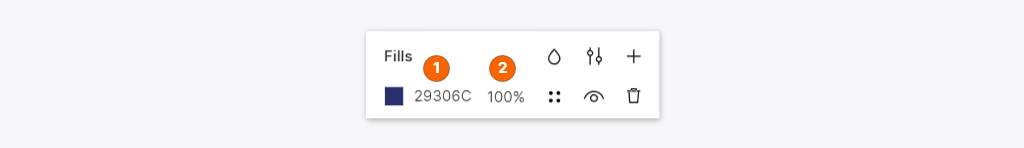
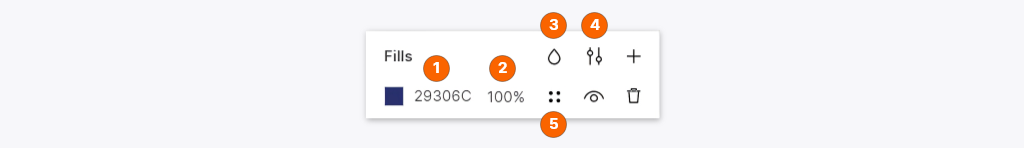
styling updates

Changed region(s): [[0.5, 0.0811, 0.5938, 0.2703], [0.5, 0.7568, 0.5625, 0.9459]]

diff --git a/docs/styling.md b/docs/styling.md
@@ -115,7 +115,7 @@ It features the following controls:
 
 <video autoplay="" muted="" loop="" playsinline="" width="auto" poster="/public/styling-pickerph1.png" height="auto"><source src="/public/styling-picker1.mp4" type="video/mp4"></video>
 
-## Color variables
+## [Color variables](#color-variables)
 
 Color variables let you efficiently manage colors in your documents and instantly recolor all the layers using the same color variable. You can apply color variables to [fills](#fills), [borders](#borders), and [shadows](#shadows).
 
@@ -154,7 +154,10 @@ The figure below shows a view of settings in the **Fills** section.
 The section features the following controls:
 
 1. The [color control](#color-controls) for setting fills.
-2. The blend mode control. Blend modes determine, in case of multiple fills, how the top fill blends with the fill underneath. Understanding blend modes is mainly a matter of practice and experimenting, but if you need some theory, you can read it <a href="https://en.wikipedia.org/wiki/Blend_modes" target="_blank">here</a>.
+2. The opacity control.
+3. The blend mode control. Blend modes determine, in case of multiple fills, how the top fill blends with the fill underneath. Understanding blend modes is mainly a matter of practice and experimenting, but if you need some theory, you can read it <a href="https://en.wikipedia.org/wiki/Blend_modes" target="_blank">here</a>.
+4. This button opens the panel where you can select between the *<a href="https://en.wikipedia.org/wiki/Nonzero-rule" target="_blank">Non-Zero</a>* and *<a href="https://en.wikipedia.org/wiki/Even–odd_rule" target="_blank">Even-Odd</a>* options for filling overlapping paths.
+5. This button opens a list of [color variables](#color-variables) 
 
 ### Solid fills
 
@@ -258,10 +261,10 @@ The section features the following controls:
 3. The borders thickness control. Sets the thickness of a border or an open path in pixels.
 4. This icon opens the advanced border settings (see the next section).
 
-![Border position](public/styling-borderdiff2.png)
+![Border position](public/styling-borderdiff3.png)
 
 {:.image-info}
-From top to bottom: center, inside and outside borders
+From top to bottom: center, inside, and outside borders
 
 ### Advanced border settings
 
@@ -342,11 +345,14 @@ The **Tints** section appears in the Inspector only when you select a group laye
 
 Unlike other styling options, you can apply only one tint to a layer.
 
-### Tint Overrides
+### Tint overrides
 
 Tint overrides can be handy, for instance, when you are designing tabs or panels with elements that can have different states expressed through different colors.
 
-Note that before using tint overrides you should add default tints.
+<div class="callout callout--warning">
+    <p><strong>Note:</strong> Before using tint overrides you should add default tints.</p>
+</div>
+
 
 The demo below shows three instances of the same component. We first applied a tint override to a nested element, then switched to the <a href="https://docs.icons8.com/components/#editing-main-components" target="_blank">component edit mode</a> and modified the default tint. In the latter case, the change applied only to the instances without the override.
 
